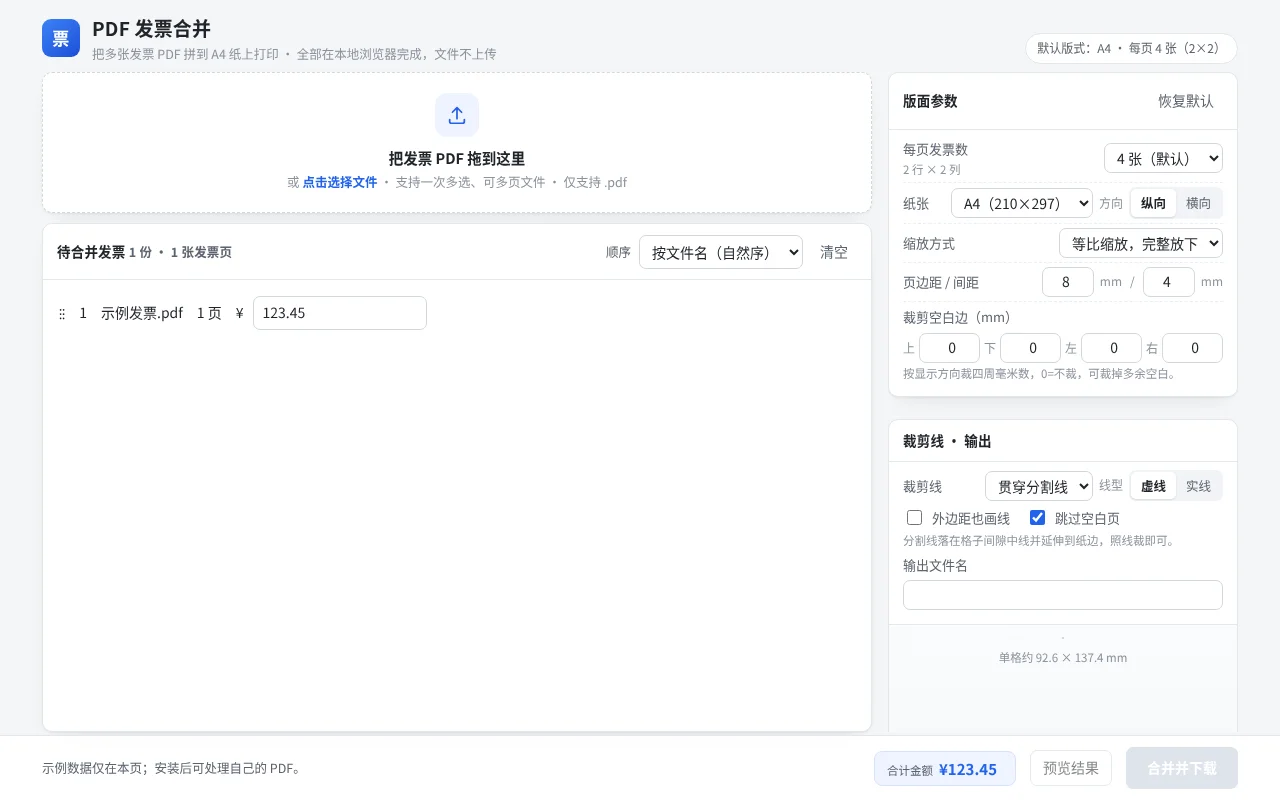
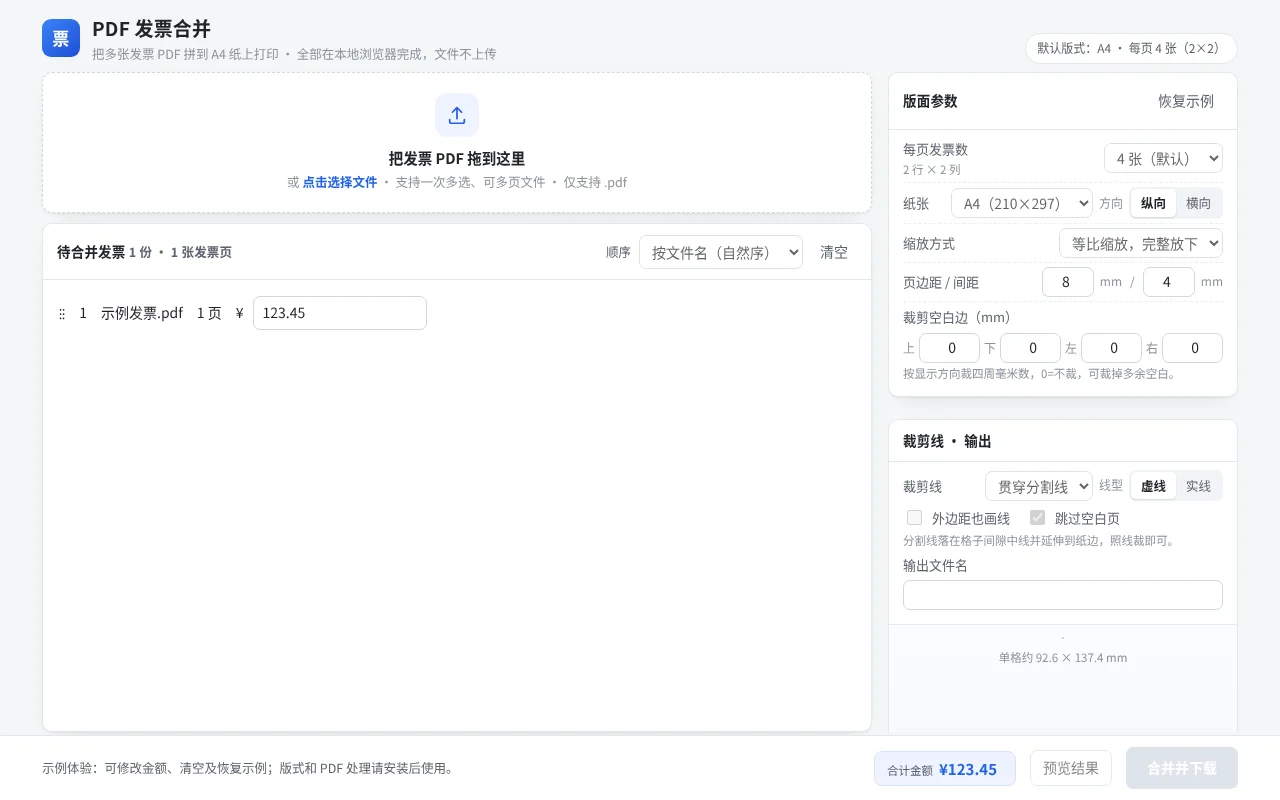
Add PDF invoice layout template

diff --git a/wb1024-c489-0b3b5775/showcase/preview.html b/wb1024-c489-0b3b5775/showcase/preview.html
@@ -426,4 +426,4 @@
   </div>
 </div>
 
-<script>const $=id=>document.getElementById(id); let amount=123.45; function render(){ $('count').textContent='1 份 · 1 张发票页'; $('listempty').style.display='none'; $('list').innerHTML='<li style="padding:16px">⋮⋮　1　示例发票.pdf　1 页　¥ <input id="demoAmount" value="'+amount+'" type="number" step="0.01"></li>'; $('totalbox').classList.remove('hidden'); $('totalval').textContent='¥'+Number(amount).toFixed(2); $('msg').textContent='示例数据仅在本页；安装后可处理自己的 PDF。'; $('demoAmount').oninput=e=>{amount=e.target.value; $('totalval').textContent='¥'+Number(amount||0).toFixed(2)}; } $('drop').onclick=render; $('reset').onclick=()=>{amount=123.45;render()}; $('clear').onclick=()=>{amount=0; $('list').innerHTML='';$('listempty').style.display='';$('totalbox').classList.add('hidden');$('count').textContent='0 份 · 0 张发票页'}; render();</script></body></html>
+<script>const $=id=>document.getElementById(id); let amount=123.45; function render(){ $('count').textContent='1 份 · 1 张发票页'; $('listempty').style.display='none'; $('list').innerHTML='<li style="padding:16px">⋮⋮　1　示例发票.pdf　1 页　¥ <input id="demoAmount" value="'+amount+'" type="number" step="0.01"></li>'; $('totalbox').classList.remove('hidden'); $('totalval').textContent='¥'+Number(amount).toFixed(2); $('msg').textContent='示例体验：可修改金额、清空及恢复示例；版式和 PDF 处理请安装后使用。'; $('demoAmount').oninput=e=>{amount=e.target.value; $('totalval').textContent='¥'+Number(amount||0).toFixed(2)}; } $('drop').onclick=render; $('reset').onclick=()=>{amount=123.45;render()}; $('clear').onclick=()=>{amount=0; $('list').innerHTML='';$('listempty').style.display='';$('totalbox').classList.add('hidden');$('count').textContent='0 份 · 0 张发票页'}; document.querySelectorAll('select, aside input, aside button').forEach(e=>{ if(e.id!=='reset') e.disabled=true; }); $('reset').textContent='恢复示例'; $('drop').setAttribute('aria-label','恢复示例发票'); render();</script></body></html>
